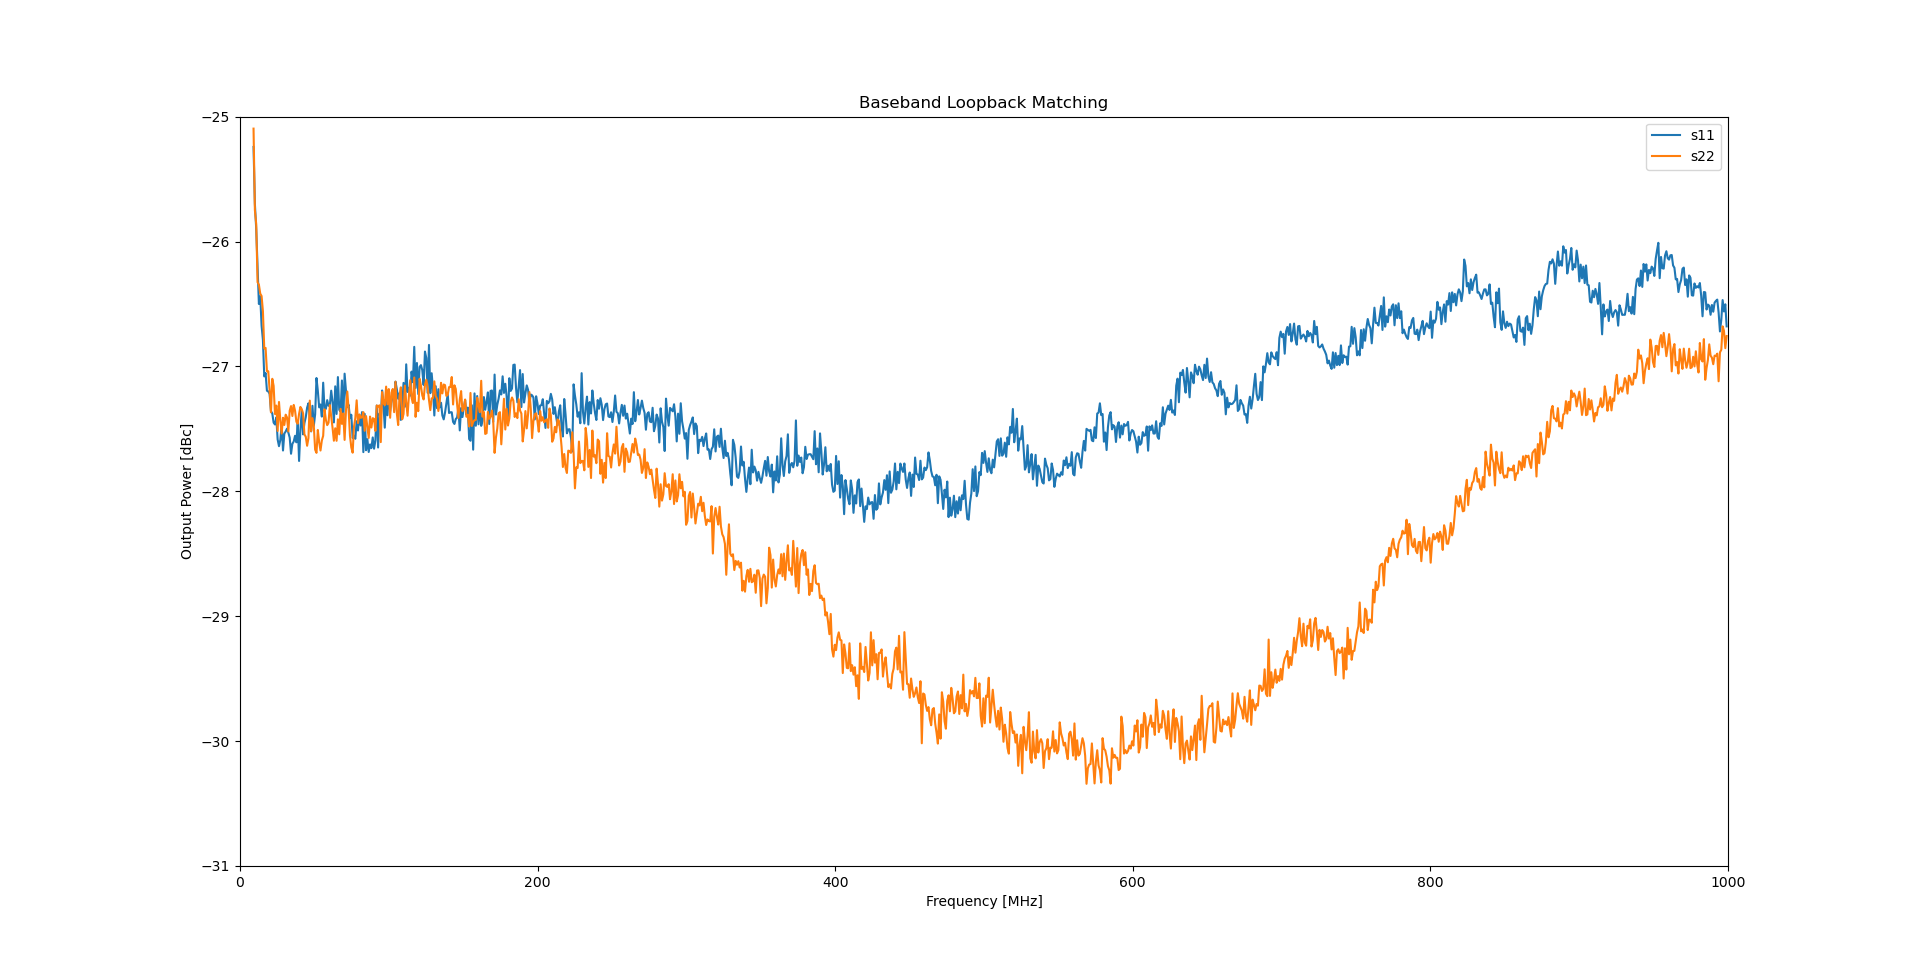
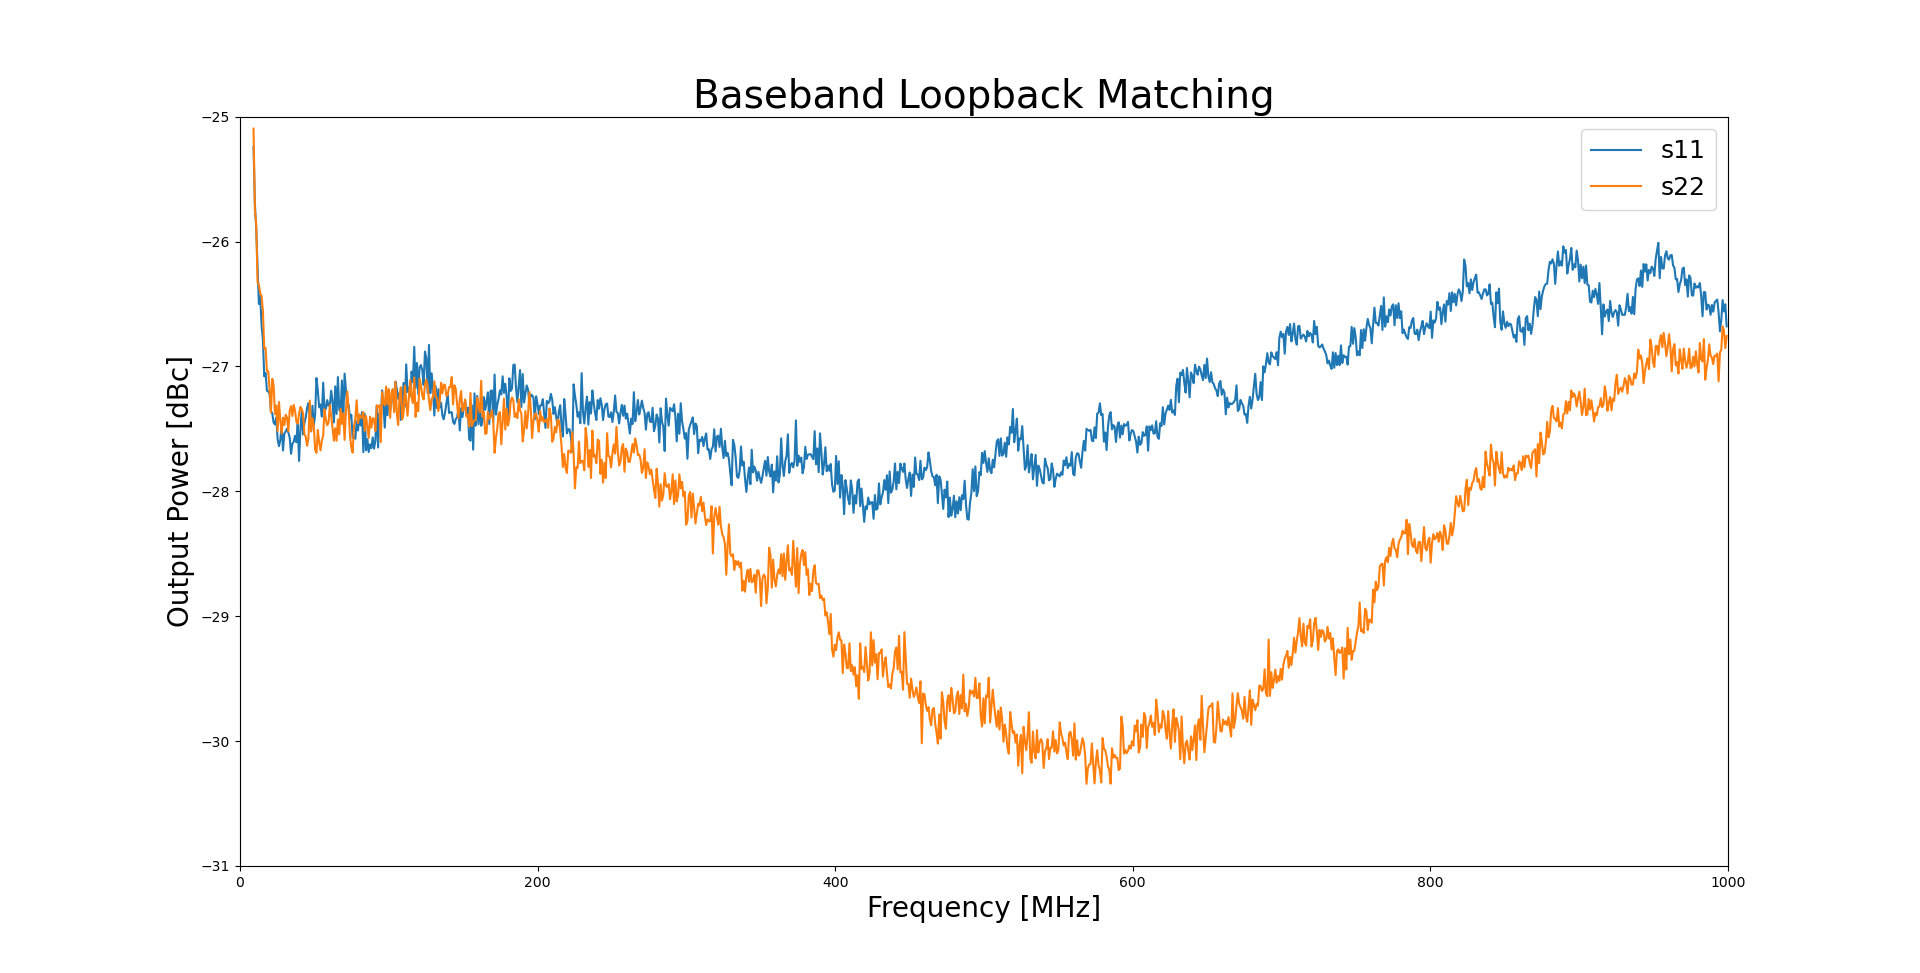
Plot text height fixes

diff --git a/plot_sxx.py b/plot_sxx.py
@@ -37,12 +37,12 @@ plot_ep_idx = np.absolute(freqs_s31-1e9).argmin()
 pl.figure()
 pl.plot(freqs_s31[plot_st_idx:plot_ep_idx]/1e6, power_s31[plot_st_idx:plot_ep_idx], label="s31")
 pl.plot(freqs_s42[plot_st_idx:plot_ep_idx]/1e6, power_s42[plot_st_idx:plot_ep_idx], label="s42")
-pl.title("Baseband Loopback Pass Response")
-pl.xlabel("Frequency [MHz]")
-pl.ylabel("Output Power [dBc]")
+pl.title("Baseband Loopback Pass Response", fontsize=28)
+pl.xlabel("Frequency [MHz]", fontsize=20)
+pl.ylabel("Output Power [dBc]", fontsize=20)
 pl.xlim(0, 1000)
 pl.ylim(-1.0, -0.3)
-pl.legend()
+pl.legend(fontsize=18)
 
 
 '''
@@ -74,12 +74,12 @@ pl.plot(freqs_s11_lb[plot_st_idx:plot_ep_idx]/1e6, power_s11_lb[plot_st_idx:plot
 pl.plot(freqs_s22_lb[plot_st_idx:plot_ep_idx]/1e6, power_s22_lb[plot_st_idx:plot_ep_idx], label="s22")
 # pl.plot(freqs_s33[plot_st_idx:plot_ep_idx]/1e6, power_s33[plot_st_idx:plot_ep_idx])
 # pl.plot(freqs_s44[plot_st_idx:plot_ep_idx]/1e6, power_s44[plot_st_idx:plot_ep_idx])
-pl.title("Baseband Loopback Matching")
+pl.title("Baseband Loopback Matching", fontsize=28)
 pl.xlim(0, 1000)
 pl.ylim(-31.0, -25.0)
-pl.xlabel("Frequency [MHz]")
-pl.ylabel("Output Power [dBc]")
-pl.legend()
+pl.xlabel("Frequency [MHz]", fontsize=20)
+pl.ylabel("Output Power [dBc]", fontsize=20)
+pl.legend(fontsize=18)
 
 
 '''
@@ -100,12 +100,12 @@ plot_ep_idx = np.absolute(freqs_s11_4p5-1e9).argmin()
 pl.figure()
 pl.plot(freqs_s11_4p5[plot_st_idx:plot_ep_idx]/1e6, power_s11_4p5[plot_st_idx:plot_ep_idx], label="s11")
 pl.plot(freqs_s22_4p5[plot_st_idx:plot_ep_idx]/1e6, power_s22_4p5[plot_st_idx:plot_ep_idx], label="s22")
-pl.title("Baseband Matching, Up-Mix, RF port 50 OHm terminated")
+pl.title("Baseband Matching, Up-Mix, RF port 50 OHm terminated", fontsize=28)
 pl.xlim(0, 1000)
 # pl.ylim(-31.0, -25.0)
-pl.xlabel("Frequency [MHz]")
-pl.ylabel("Output Power [dBc]")
-pl.legend()
+pl.xlabel("Frequency [MHz]", fontsize=20)
+pl.ylabel("Output Power [dBc]", fontsize=20)
+pl.legend(fontsize=18)
 
 
 '''
@@ -135,9 +135,9 @@ power_s66_5p5 = f_s66_rf_5p5["data"]
 pl.figure()
 pl.plot(freqs_s55_4p5/1e6, power_s55_4p5, label="S55_4p5 GHz")
 pl.plot(freqs_s66_4p5/1e6, power_s66_4p5, label="S66_4p5 GHz")
-pl.title("RF Snn Matching vs F_LO")
+pl.title("RF Snn Matching vs F_LO", fontsize=28)
 pl.xlim(3200, 5200)
 # pl.ylim(-31.0, -25.0)
-pl.xlabel("Frequency [MHz]")
-pl.ylabel("Power [dB]")
-pl.legend()
+pl.xlabel("Frequency [MHz]", fontsize=20)
+pl.ylabel("Power [dB]", fontsize=20)
+pl.legend(fontsize=18)

diff --git a/plot_dac_calib.py b/plot_dac_calib.py
@@ -33,12 +33,12 @@ fig1 = pl.figure(1)
 frame1 = fig1.add_axes((0.1, 0.3, 0.8, 0.6))
 pl.plot(dac_freqs[dac_plot_start:]/1e6, dac0[dac_plot_start:], label="DAC0")
 pl.plot(dac_freqs[dac_plot_start:]/1e6, dac1[dac_plot_start:], label="DAC1")
-pl.title("DAC Response vs Freq (Half Scale)")
+pl.title("DAC Responses vs Freq (Half Scale)", fontsize=28)
 # xlabel on frame2
-pl.ylabel("Output Power [dBm]")
+pl.ylabel("Output Power [dBm]", fontsize=20)
 pl.xlim(6, 490)
 pl.ylim(-10, 0)
-pl.legend()
+pl.legend(fontsize=18)
 
 # pl.grid()
 frame2 = fig1.add_axes((0.1, 0.1, 0.8, 0.2))
@@ -46,6 +46,6 @@ dac_diff = 10*np.log10(db_math.dBm_mW(dac1[dac_plot_start:]) / db_math.dBm_mW(da
 pl.plot(dac_freqs[dac_plot_start:]/1e6, dac_diff)
 pl.xlim(6, 490)
 pl.ylim(-0.1, -0.025)
-pl.xlabel("Frequency [MHz]")
-pl.ylabel("Output Power [dBc]")
+pl.xlabel("Frequency [MHz]", fontsize=20)
+pl.ylabel("Output Power [dBc]", fontsize=20)
 pl.grid()

diff --git a/copy_paste_protypes.py b/copy_paste_protypes.py
@@ -36,8 +36,8 @@ data_s22 = ena.getFormattedData(2)
 # data_s12 = ena.getFormattedData(5)
 # data_s11 = ena.getFormattedData(6)
 # data_s22 = ena.getFormattedData(7)
-np.savez_compressed("s_data/SN013L_S55_rf_bbterm_4p5GHz", freqs = freqs, data=data_s11)
-np.savez_compressed("s_data/SN013L_S66_rf_bbterm_4p5GHz", freqs = freqs, data=data_s22)
+np.savez_compressed("s_data/SN013L_S55_rf_bbterm_5p5GHz", freqs = freqs, data=data_s11)
+np.savez_compressed("s_data/SN013L_S66_rf_bbterm_5p5GHz", freqs = freqs, data=data_s22)
 np.savez_compressed("s_data/SN020L_S32_rf_Loopback_4p5GHz", freqs = freqs, data=data_s32)
 np.savez_compressed("s_data/SN020L_S41_rf_Loopback_4p5GHz", freqs = freqs, data=data_s41)
 np.savez_compressed("s_data/SN020L_S12_rf_Loopback_4p5GHz", freqs = freqs, data=data_s12)

diff --git a/plot_rf_calib.py b/plot_rf_calib.py
@@ -67,9 +67,9 @@ pl.figure()
 pl.plot(calib_freqs/1e6, post_calib_power_dBm, label="Tone Power")
 pl.plot(nat_freq_x/1e6, nat_im_flip-12.46, label="Natural Image Supression")
 pl.plot(calib_freqs/1e6, post_calib_image_dBm, label="Image After Angle Cal")
-pl.title("IF Calibration - Power UP-Mix (RF, $f_{LO}$=4.5GHz)")
-pl.xlabel("Frequency [MHz]")
-pl.ylabel("RF Power [dBm]")
+pl.title("IF Calibration - Power UP-Mix (RF, $f_{LO}$=4.5GHz)", fontsize=28)
+pl.xlabel("Frequency [MHz]", fontsize=20)
+pl.ylabel("RF Power [dBm]", fontsize=20)
 pl.xlim(-480, 480)
-pl.legend()
+pl.legend(fontsize=18)
 

diff --git a/plot_ipx.py b/plot_ipx.py
@@ -167,7 +167,7 @@ pl.plot(x_imd3, imd3, label="IP3-1:3 Line")
 pl.ylim(-65, 20)
 pl.xlim(-5, 12)
 # pl.axis('equal')
-pl.title("IIPn DN-Mix : SN0013")
-pl.xlabel("$P_{IN}$ [dBm]")
-pl.ylabel("$P_{OUT}$ [dBm]")
-pl.legend()
+pl.title("IIPn DN-Mix : SN0013", fontsize=28)
+pl.xlabel("$P_{IN}$ [dBm]", fontsize=20)
+pl.ylabel("$P_{OUT}$ [dBm]", fontsize=20)
+pl.legend(fontsize=18)
